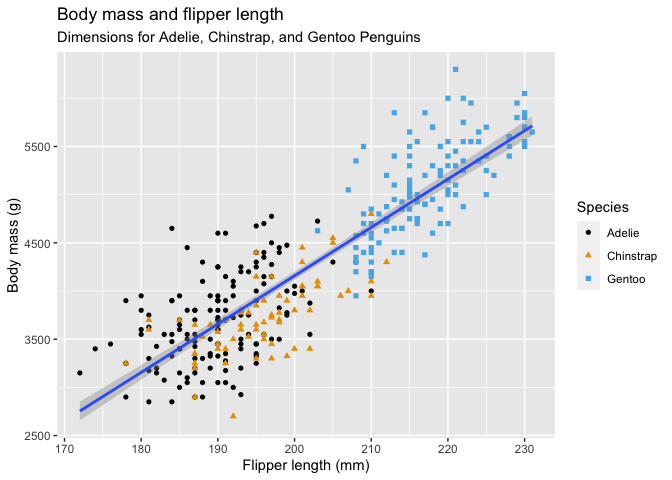
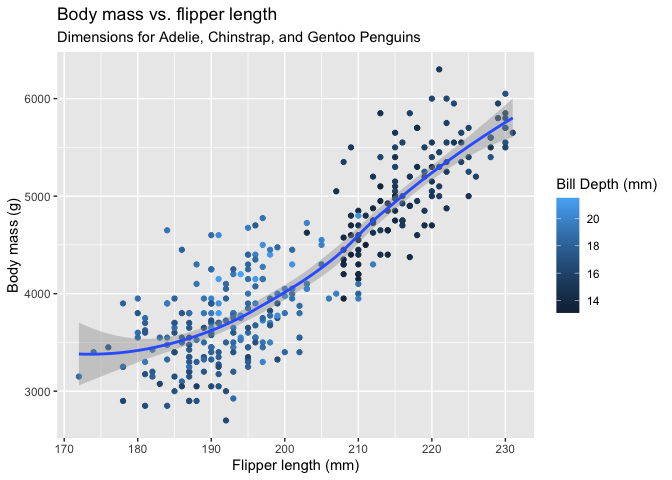
Add HW 3

diff --git a/hmk_03_JLO.md b/hmk_03_JLO.md
@@ -106,15 +106,14 @@ library(ggthemes)
 na.omit(penguins) |>
 ggplot(aes(x=flipper_length_mm, y=body_mass_g)
   ) +
-  geom_point(mapping = aes(color = species, shape = species)) +
-  geom_smooth(method = "lm") +
+  geom_point(mapping = aes(color = bill_depth_mm)) +
+  geom_smooth() +
   labs(
-    title = "Body mass and flipper length",
+    title = "Body mass vs. flipper length",
     subtitle = "Dimensions for Adelie, Chinstrap, and Gentoo Penguins",
     x = "Flipper length (mm)", y = "Body mass (g)",
-    color = "Species", shape = "Species"
-  ) +
-  scale_color_colorblind()
+    color = "Bill Depth (mm)"
+  )
 ```
 
 ![](hmk_03_JLO_files/figure-gfm/unnamed-chunk-11-1.png)
@@ -126,6 +125,6 @@ ggplot(aes(x=flipper_length_mm, y=body_mass_g)
 
 *Mapping species globally has the undesirable effect of creating
 distinct linear models for each cluster of species data. Mapping species
-color and shape at the point level creates distinctly colored and shaped
-data points for each group of species data, which helps to make the
-graph easily interpretable.*
+color (and shape) at the point level creates distinctly colored and
+shaped data points for each group of species data, which helps to make
+the graph easily interpretable.*
